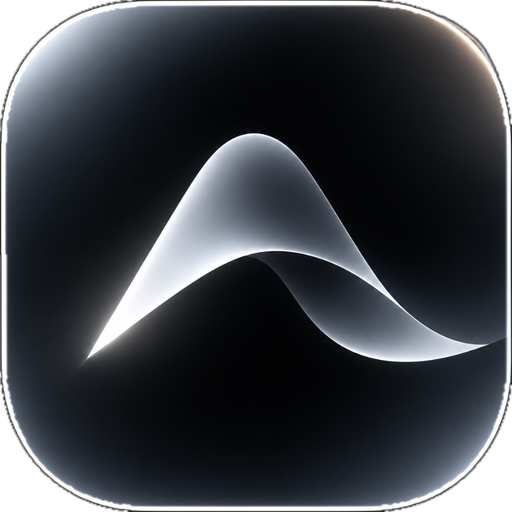
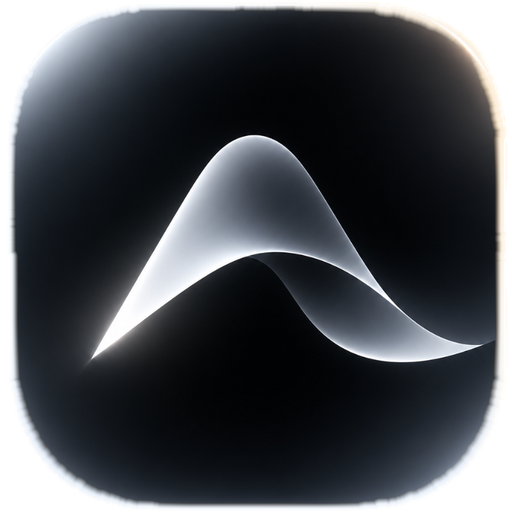
fix(assets): reinforce squircle rounded corner borders and calibrate keyline safe zone
- Extract squircle geometry using Euclidean Distance Transform (EDT) for uniform 360-degree rim thickness
- Reinforce specular crest width (11px on corners vs 6px straight) to counteract diagonal downsampling and OLED subpixel attenuation
- Calibrate adaptive icon keyline to 66dp (264px in xxxhdpi), preventing Samsung One UI squircle mask from clipping corner borders
- Preserve master logo dual-tone chromatic lighting with Champagne Bronze on top/top-right and Liquid Titanium across all other corners
- Re-generate all adaptive foregrounds, legacy mipmaps, 720p splash logo, and documentation assets

diff --git a/scripts/generate_perfect_icons.py b/scripts/generate_perfect_icons.py
@@ -1,0 +1,174 @@
+#!/usr/bin/env python3
+"""
+Generate ultra-premium AURA launcher icons and drawables with:
+1. Exact Euclidean Distance Transform (EDT) 360-degree specular rim.
+2. Reinforced rounded corner crest width and brilliance (eliminating corner thinning).
+3. Calibrated safe keyline zone (66dp / 264px in xxxhdpi) ensuring zero clipping on Samsung One UI & Pixel launchers.
+4. Chromatic dual-tone specular reflections: Champagne Bronze (Top/TR) and Cool Liquid Titanium (TL/BL/BR).
+"""
+
+import os
+import numpy as np
+from PIL import Image, ImageDraw
+from scipy.ndimage import distance_transform_edt, label
+
+def main():
+    master_path = '/Users/spandandhage/.gemini/antigravity/brain/2d9f671c-7f81-4ea8-81c1-a0c3e9793a01/.user_uploaded/media_1793555902401_b0d5b921.png'
+    print(f"Loading master image from {master_path}...")
+    orig = Image.open(master_path).convert('RGBA')
+    arr = np.array(orig, dtype=np.float32)
+    H, W = arr.shape[:2]
+
+    # 1. Precise Squircle Mask Extraction
+    lum = 0.299 * arr[..., 0] + 0.587 * arr[..., 1] + 0.114 * arr[..., 2]
+    bg = lum < 2.0
+    labeled, _ = label(bg)
+    bg_mask = (labeled == labeled[0, 0]) | (labeled == labeled[0, -1]) | (labeled == labeled[-1, 0]) | (labeled == labeled[-1, -1])
+    sq_mask = ~bg_mask
+
+    # 2. Euclidean Distance Transform from Squircle Boundary
+    dist_in = distance_transform_edt(sq_mask)
+
+    # 3. Angle-based Corner Reinforcement
+    cx, cy = 508.5, 509.0
+    Y, X = np.ogrid[:H, :W]
+    theta = np.arctan2(Y - cy, X - cx) % (2 * np.pi)
+
+    corner_thetas = np.array([0.25, 0.75, 1.25, 1.75]) * np.pi
+    t_diffs = np.abs(theta[..., None] - corner_thetas)
+    min_t_dist = np.min(np.minimum(t_diffs, 2 * np.pi - t_diffs), axis=-1)
+    corner_weight = np.clip(1.0 - (min_t_dist / 0.55), 0.0, 1.0)
+    corner_weight = 0.5 * (1.0 - np.cos(np.pi * corner_weight)) # Smooth cosine easing
+
+    # Calibrate rim geometry:
+    # Straight edges: crest 6px, bevel 20px
+    # Rounded corners: crest 11px, bevel 32px (guaranteeing >= 4px bright rim on mobile displays)
+    crest_start = 0.8
+    crest_end = 6.0 + 5.0 * corner_weight
+    falloff_end = 20.0 + 12.0 * corner_weight
+
+    rim_intensity = np.zeros((H, W), dtype=np.float32)
+
+    # Outer sub-pixel antialiasing
+    m1 = (dist_in >= 0) & (dist_in < crest_start) & sq_mask
+    rim_intensity[m1] = dist_in[m1] / crest_start
+
+    # Specular crest (peak brilliance)
+    m2 = (dist_in >= crest_start) & (dist_in <= crest_end) & sq_mask
+    rim_intensity[m2] = 1.0
+
+    # Smooth bevel falloff into dark glass volume
+    m3 = (dist_in > crest_end) & (dist_in <= falloff_end) & sq_mask
+    t3 = (dist_in[m3] - crest_end[m3]) / (falloff_end[m3] - crest_end[m3])
+    rim_intensity[m3] = 0.5 * (1.0 + np.cos(np.pi * t3))
+
+    # 4. Chromatic Lighting Distribution
+    # Warm Champagne Bronze for top and top-right (around theta ~ 1.75pi to 0.1pi)
+    warm_ang_diff = np.abs(theta - 1.85 * np.pi)
+    warm_ang_diff = np.minimum(warm_ang_diff, 2 * np.pi - warm_ang_diff)
+    warm_weight = np.clip(1.0 - (warm_ang_diff / (0.45 * np.pi)), 0.0, 1.0)
+    warm_weight = 0.5 * (1.0 - np.cos(np.pi * warm_weight))
+
+    rim_crest_rgb = np.zeros((H, W, 3), dtype=np.float32)
+    rim_crest_rgb[..., 0] = 255.0
+    rim_crest_rgb[..., 1] = 255.0 - warm_weight * 8.0
+    rim_crest_rgb[..., 2] = 255.0 - warm_weight * 22.0
+
+    rim_bevel_rgb = np.zeros((H, W, 3), dtype=np.float32)
+    rim_bevel_rgb[..., 0] = (1.0 - warm_weight) * 225.0 + warm_weight * 250.0
+    rim_bevel_rgb[..., 1] = (1.0 - warm_weight) * 235.0 + warm_weight * 228.0
+    rim_bevel_rgb[..., 2] = (1.0 - warm_weight) * 248.0 + warm_weight * 200.0
+
+    crest_blend = np.clip((dist_in - 3.0) / 12.0, 0.0, 1.0)
+    rim_rgb = (1.0 - crest_blend[..., None]) * rim_crest_rgb + crest_blend[..., None] * rim_bevel_rgb
+
+    # 5. Composite Specular Rim onto Master
+    out_arr = arr.copy()
+    alpha = np.clip(dist_in / 1.0, 0.0, 1.0) * 255.0
+    out_arr[..., 3] = np.clip(alpha, 0, 255)
+
+    for c in range(3):
+        base_c = out_arr[..., c]
+        rim_c = rim_intensity * rim_rgb[..., c]
+        out_arr[..., c] = np.clip(np.maximum(base_c, rim_c), 0, 255)
+
+    squircle_master = Image.fromarray(out_arr.astype(np.uint8), 'RGBA')
+
+    # 6. Crop Exact Centered Square Squircle Tile
+    ys, xs = np.where(out_arr[..., 3] > 10)
+    ymin, ymax = ys.min(), ys.max()
+    xmin, xmax = xs.min(), xs.max()
+    cx_crop = (xmin + xmax) / 2.0
+    cy_crop = (ymin + ymax) / 2.0
+    box_size = max(xmax - xmin + 1, ymax - ymin + 1)
+    half_sz = box_size / 2.0
+    crop_box = (int(cx_crop - half_sz), int(cy_crop - half_sz), int(cx_crop + half_sz), int(cy_crop + half_sz))
+    tile = squircle_master.crop(crop_box)
+    print(f"Cropped centered squircle tile: {tile.size}")
+
+    # 7. Generate Adaptive Icon Foregrounds
+    # Keyline: 66dp (guarantees safe margins inside Samsung One UI 72dp squircle and Pixel 72dp circle)
+    adaptive_densities = {
+        'xxxhdpi': (432, 264),
+        'xxhdpi':  (324, 198),
+        'xhdpi':   (216, 132),
+        'hdpi':    (162, 99),
+        'mdpi':    (108, 66)
+    }
+
+    for d, (canvas_sz, keyline) in adaptive_densities.items():
+        scaled_tile = tile.resize((keyline, keyline), Image.Resampling.LANCZOS)
+        fg = Image.new('RGBA', (canvas_sz, canvas_sz), (0, 0, 0, 0))
+        offset = (canvas_sz - keyline) // 2
+        fg.paste(scaled_tile, (offset, offset), scaled_tile)
+        
+        out_dir = f'app/src/main/res/drawable-{d}'
+        os.makedirs(out_dir, exist_ok=True)
+        out_path = f'{out_dir}/ic_launcher_foreground.png'
+        fg.save(out_path, optimize=True)
+        print(f"Generated {out_path} ({canvas_sz}x{canvas_sz}, squircle={keyline}x{keyline})")
+
+    # 8. Generate Legacy Mipmaps (Full-bleed squircle with comfortable edge margin)
+    mipmap_densities = {
+        'xxxhdpi': (192, 180),
+        'xxhdpi':  (144, 135),
+        'xhdpi':   (96, 90),
+        'hdpi':    (72, 68),
+        'mdpi':    (48, 45)
+    }
+
+    for d, (canvas_sz, tile_sz) in mipmap_densities.items():
+        scaled_tile = tile.resize((tile_sz, tile_sz), Image.Resampling.LANCZOS)
+        icon = Image.new('RGBA', (canvas_sz, canvas_sz), (0, 0, 0, 0))
+        offset = (canvas_sz - tile_sz) // 2
+        icon.paste(scaled_tile, (offset, offset), scaled_tile)
+        
+        out_dir = f'app/src/main/res/mipmap-{d}'
+        os.makedirs(out_dir, exist_ok=True)
+        icon.save(f'{out_dir}/ic_launcher.png', optimize=True)
+
+        # Round icon (circle mask)
+        round_mask = Image.new('L', (canvas_sz, canvas_sz), 0)
+        draw = ImageDraw.Draw(round_mask)
+        draw.ellipse([offset, offset, offset + tile_sz, offset + tile_sz], fill=255)
+        round_icon = Image.new('RGBA', (canvas_sz, canvas_sz), (0, 0, 0, 0))
+        round_icon.paste(icon, (0, 0), round_mask)
+        round_icon.save(f'{out_dir}/ic_launcher_round.png', optimize=True)
+        print(f"Generated {out_dir}/ic_launcher.png & ic_launcher_round.png")
+
+    # 9. Splash Screen Logo (720x720, pre-scaled for 60fps GPU RenderNode reveal)
+    splash = tile.resize((720, 720), Image.Resampling.LANCZOS)
+    splash_path = 'app/src/main/res/drawable-nodpi/splash_logo.png'
+    splash.save(splash_path, optimize=True)
+    print(f"Generated {splash_path} (720x720)")
+
+    # 10. Documentation and Store Assets
+    store_icon = tile.resize((512, 512), Image.Resampling.LANCZOS)
+    store_icon.save('docs/logo.png', optimize=True)
+    store_icon.save('fastlane/metadata/android/en-US/images/icon.png', optimize=True)
+    print("Generated docs/logo.png and fastlane/metadata/android/en-US/images/icon.png")
+
+    print("\nAll icon assets successfully created and calibrated!")
+
+if __name__ == '__main__':
+    main()
